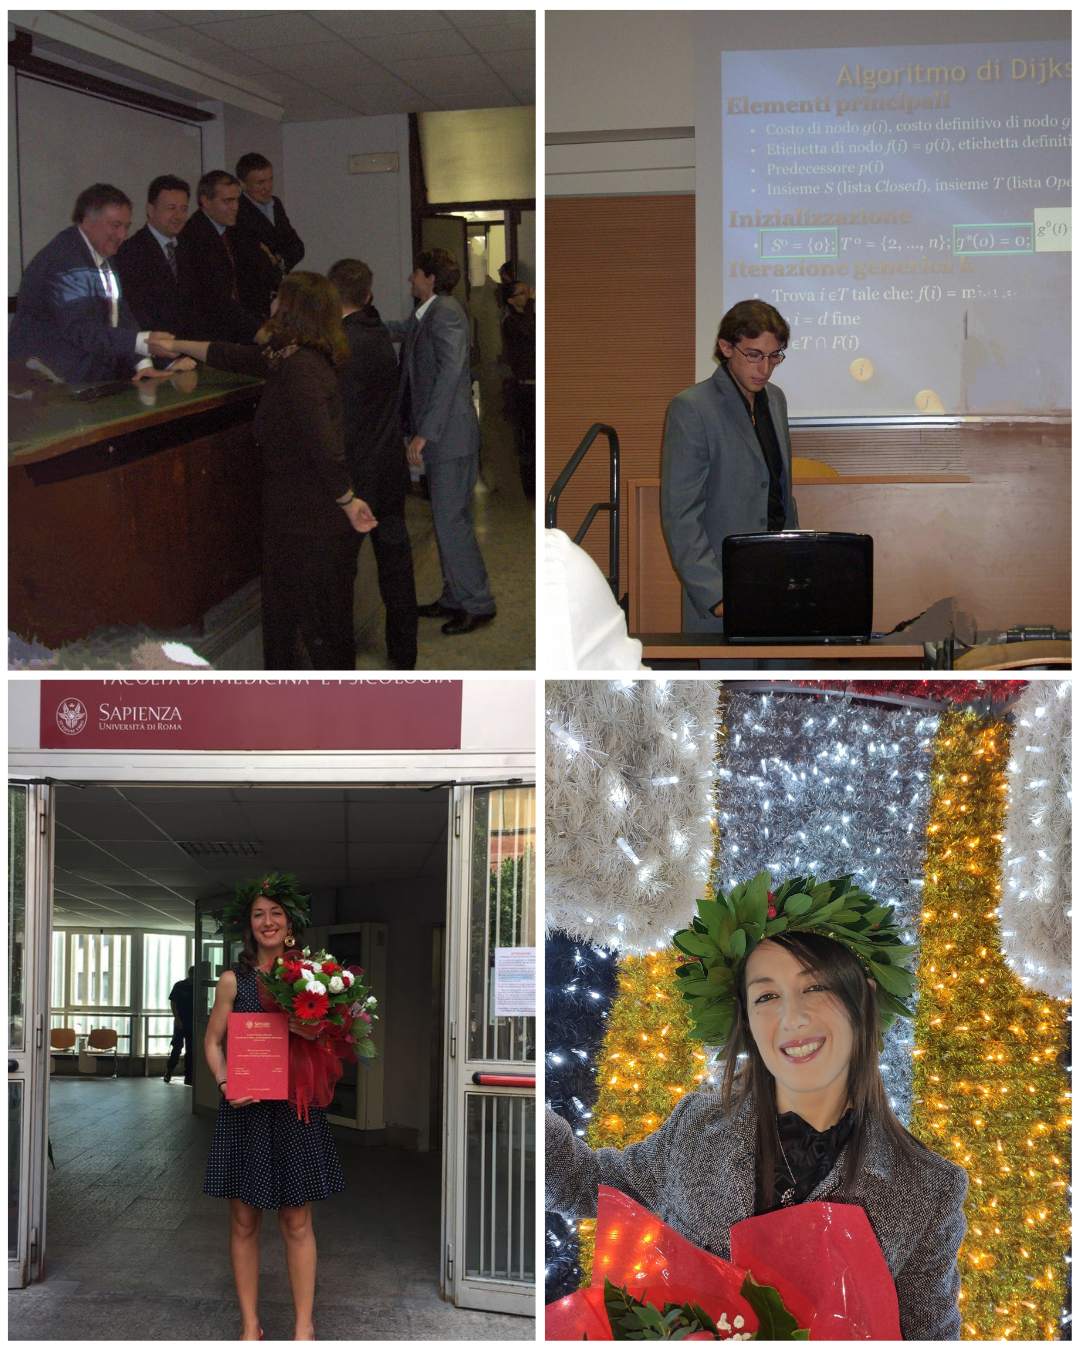
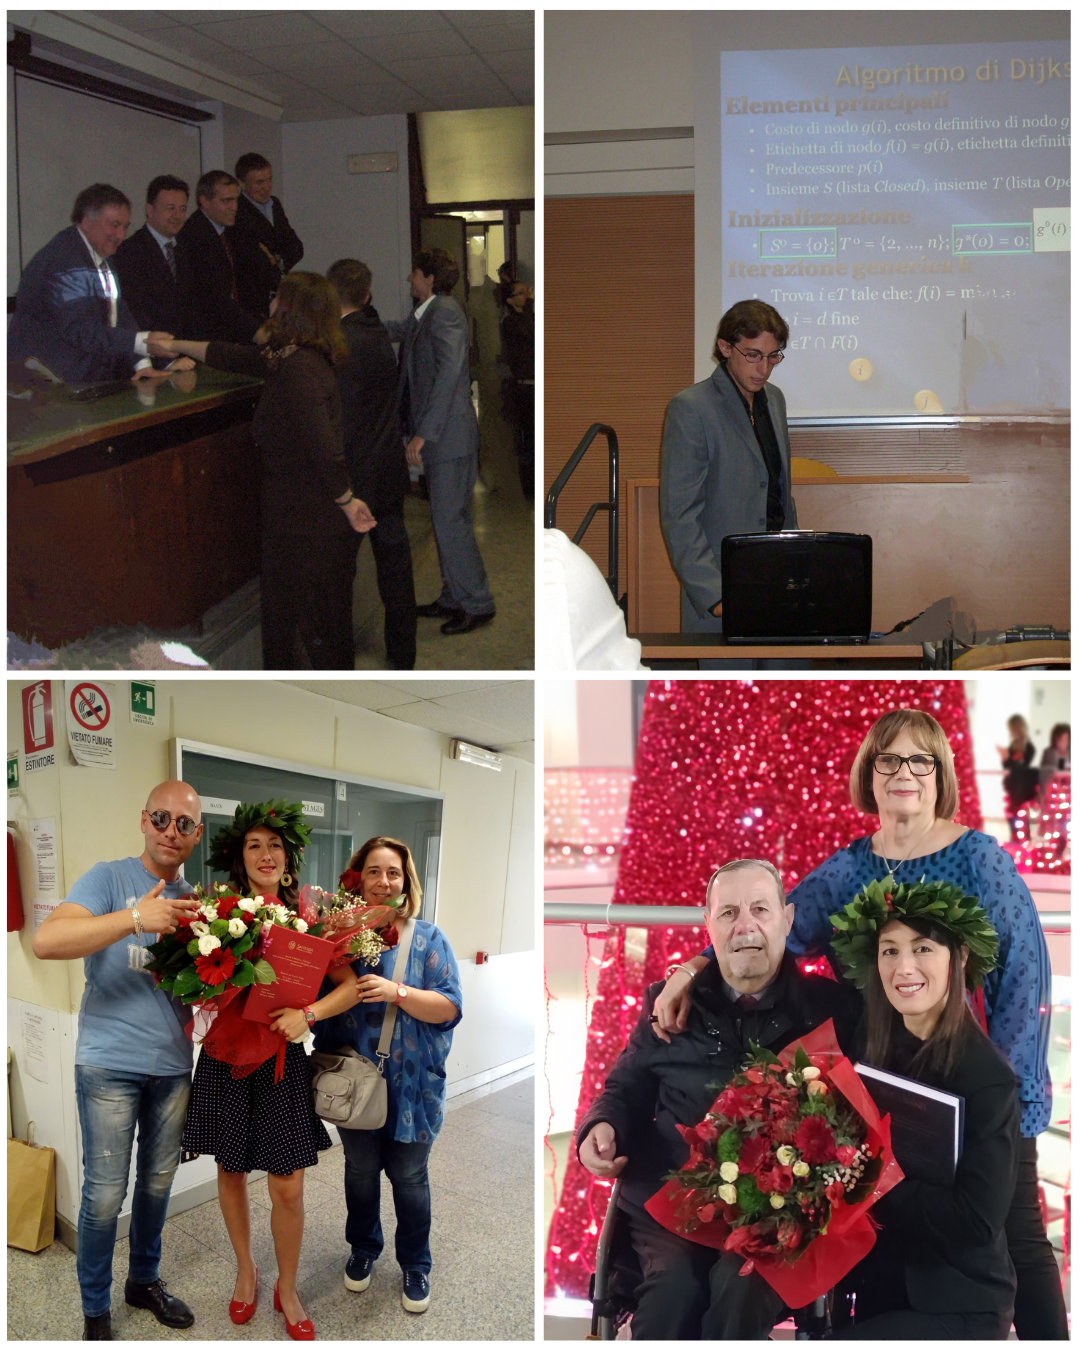
Adding photo to our story

diff --git a/src/app/pages/our-story/services/cards.service.ts b/src/app/pages/our-story/services/cards.service.ts
@@ -146,6 +146,13 @@ export class CardsService {
       image: '/images/our-story/our-story-chiara_simone_marco_giulia.png',
     },
     {
+      id: 'chiara_papa',
+      type: 'card',
+      title: 'our_story.cards.chiara_papa.title',
+      description: 'our_story.cards.chiara_papa.description',
+      image: '/images/our-story/our-story-chiara_papa.jpg',
+    },
+    {
       id: 'chiara_simone_laurea',
       type: 'card',
       title: 'our_story.cards.chiara_simone_laurea.title',
@@ -175,6 +182,21 @@ export class CardsService {
       description: 'our_story.cards.chiara_simone_mare_mosso.description',
       image: '/images/our-story/our-story-chiara_simone_mare_mosso.jpg',
       comics: ['/images/our-story/our-story-comics-chiara_simone_mare_mosso.png'],
+    },
+    {
+      id: 'chiara_simone_snorkeling',
+      type: 'card',
+      title: 'our_story.cards.chiara_simone_snorkeling.title',
+      description: 'our_story.cards.chiara_simone_snorkeling.description',
+      image: '/images/our-story/our-story-chiara_simone_snorkeling.png',
+      comics: ['/images/our-story/our-story-comics-chiara_simone_snorkeling.png'],
+    },
+    {
+      id: 'chiara_simone_giordana',
+      type: 'card',
+      title: 'our_story.cards.chiara_simone_giordana.title',
+      description: 'our_story.cards.chiara_simone_giordana.description',
+      image: '/images/our-story/our-story-chiara_simone_giordana.jpg',
     },
     {
       id: "outro",
